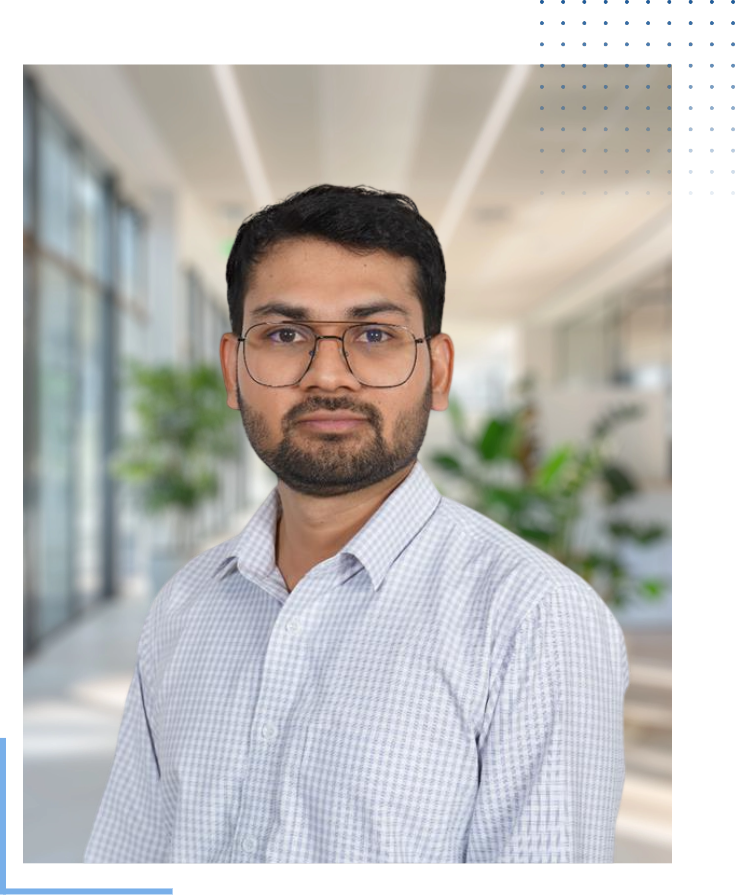
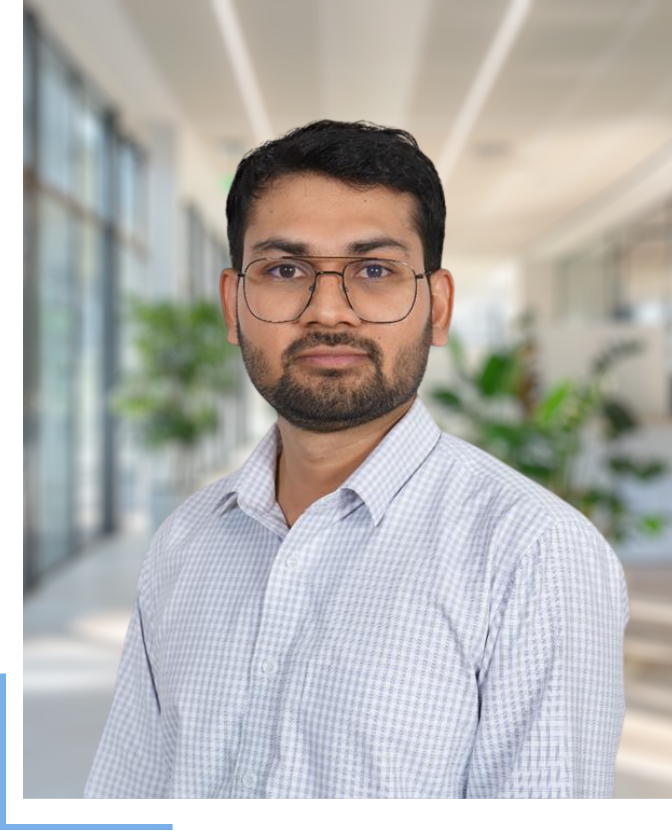
--textual changes

diff --git a/src/app/components/the-team/the-team.ts b/src/app/components/the-team/the-team.ts
@@ -72,10 +72,12 @@ export class TheTeam implements OnInit {
       name: 'Jaimin Chohan',
       tagline: 'Strategic operations leader specializing in governance, compliance, and process optimization.',
         bio: [
-          'Jaimin Chohan is a strategic operations and analytics leader with 20+ years of experience in governance, compliance, and process excellence. He brings advanced capabilities in data analytics, SAP data interpretation, system optimisation, and reporting frameworks that support due diligence, financial projections, and statutory compliance. Jaimin also plays a key role in wealth and investment analytics, assisting leadership teams and promoters in capital allocation, investment performance tracking, and monetisation strategies.',
-          'His academic background in commerce, software engineering, and electronic data processing underpins a structured, technology-driven approach to delivering scalable, insight-led business solutions.'
+          'Jaimin Chohan is a seasoned strategic operations and analytics leader with over 20 years of experience in driving governance, compliance, and process excellence across organizations. He specializes in strengthening functional and system performance, enabling businesses to enhance operational efficiency and make informed, high-impact decisions.',
+          'With a deep understanding of organizational frameworks, Jaimin ensures that business processes are not only efficient but also resilient and scalable. His expertise lies in leveraging data as a strategic asset - bridging the gap between complex datasets and executive decision-making to unlock measurable business value.',
+          'He brings advanced capabilities in data analytics, system optimization, and SAP data interpretation, enabling the design of robust data collection frameworks and insightful reporting structures. His work supports critical areas such as due diligence, financial projections, and statutory compliance, while also driving cost optimization and operational refinement.','Jaimin plays a pivotal role in wealth and investment analytics, with a strong focus on evaluation of investment and divestment opportunities and value realisation strategies. He supports leadership teams and promoters in assessing capital allocation decisions, tracking investment performance, and identifying opportunities for strategic realignment and monetisation.','Backed by academic qualifications in commerce, software engineering, and electronic data processing, he brings a structured, technology-driven, and practical approach to advisory - delivering insight-led, scalable, and outcome-oriented business solutions.'
         ],
       image: 'assets/images/team/jaiminChohan_img.png',
+      constrainDesktopImage: true,
     },
   ];
 

diff --git a/src/app/components/home/home.ts b/src/app/components/home/home.ts
@@ -66,7 +66,7 @@ export class Home implements OnInit, AfterViewInit {
       details: [
         'Legal-Commercial & Transactional Documentation',
         'Business Concepts, Projects & Implementation Advisory',
-        'Transaction AdvisoryFund Raising, IPO, Private Equity Advisory',
+        'Fund Raising, IPO, Private Equity Advisory',
         'FERA & Exchange Controls',
       ],
     },
@@ -103,7 +103,7 @@ export class Home implements OnInit, AfterViewInit {
       ],
     },
     {
-      title: '2020-2025',
+      title: '2020-2026',
       details: [
         'Entrepreneur Mentoring & Support Services',
         'Greentech Businesses',

diff --git a/src/styles.scss b/src/styles.scss
@@ -391,6 +391,7 @@ main {
     z-index: 1;
     width: 100%;
     max-width: 530px;
+    object-fit: contain;
     // height: 100%;
     // max-height: 600px;
 
@@ -820,8 +821,9 @@ main {
     }
     .the-team-img {
       width: 100%;
-      max-width: 430px;
-      position: absolute;
+      max-width: 600px;
+      object-fit: contain;
+      // position: absolute;
       // height: 100%;
       // max-height: 450px;
     }
@@ -1279,7 +1281,7 @@ ul li {
       .main-img,
       .the-team-img {
         position: relative;
-        max-width: 100%;
+        // max-width: 100%;
       }
     }
   }

diff --git a/src/app/components/the-team/the-team.html b/src/app/components/the-team/the-team.html
@@ -62,9 +62,9 @@
     </div>
     <div class="col-12 col-lg-6 kms-approach-advisory-img" data-aos="fade-left" data-aos-duration="1000"
       data-aos-delay="300">
+      <!-- [class.team-member-img--constrained]="member.constrainDesktopImage" -->
       <img
         class="the-team-img"
-        [class.team-member-img--constrained]="member.constrainDesktopImage"
         [src]="member.image"
         [alt]="member.name"
       />

diff --git a/src/app/components/about-us/about-us.ts b/src/app/components/about-us/about-us.ts
@@ -163,7 +163,7 @@ export class AboutUs implements OnInit, AfterViewInit {
     },
     {
       title: 'Advisory & Solution',
-      details: ['Value-added solutions', 'Strategy to Create Value and Alignment'],
+      details: ['Strategy to Create Value and Alignment'],
     },
     {
       title: 'Implementation Strategies',
